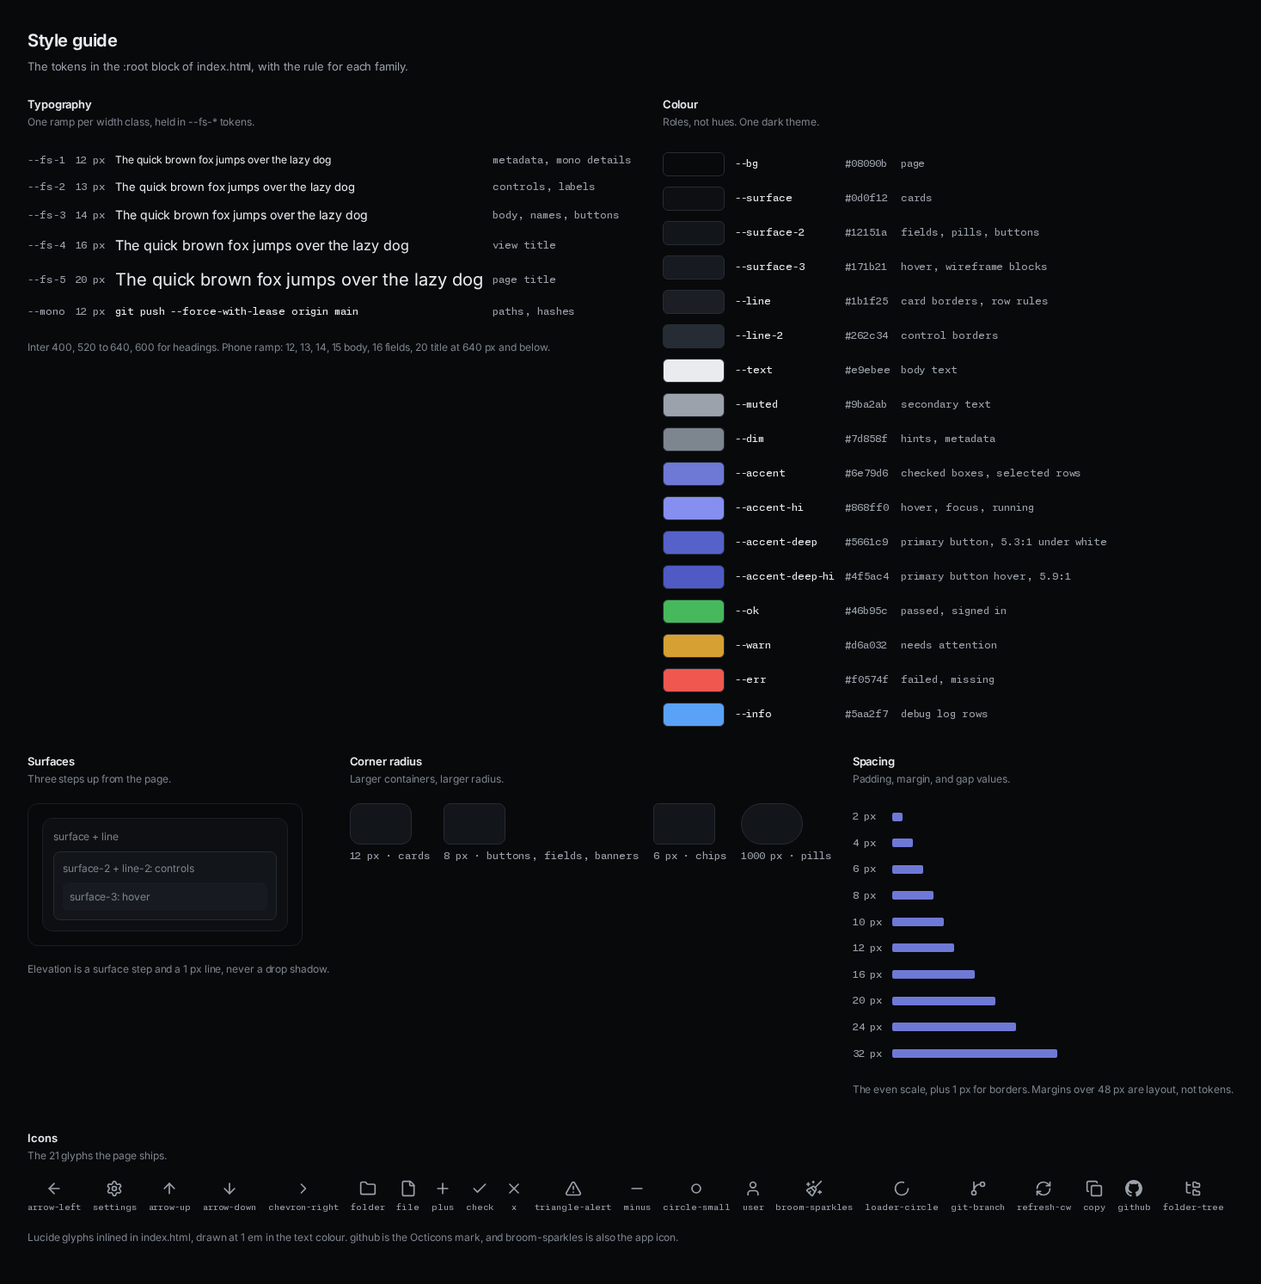
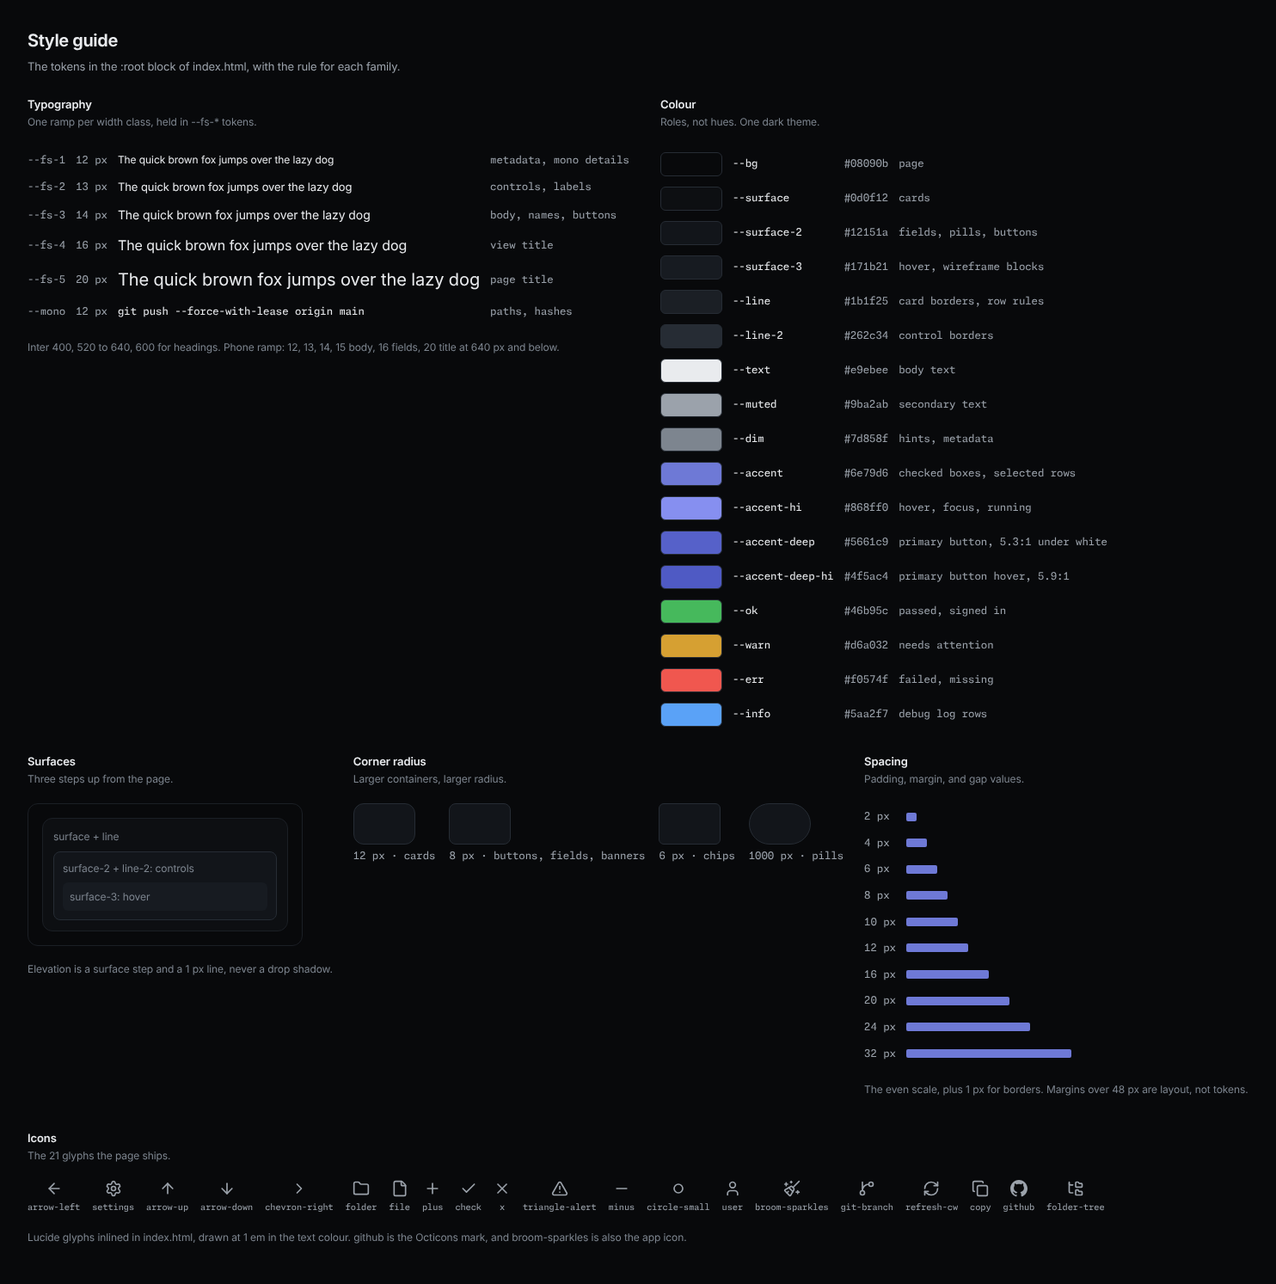
feat(ui): pulse a dot on every amber state

diff --git a/docs/boards/style.html b/docs/boards/style.html
@@ -159,7 +159,7 @@
 <p class="lbl">Icons</p>
 <p class="sub">The 21 glyphs the page ships.</p>
 </div>
-<div class="row" style="gap:14px;font-size:20px;color:var(--muted);flex-wrap:wrap"><span class="col" style="gap:4px;align-items:center"><span class="ico-svg" data-icon="arrow-left" aria-hidden="true"></span><span class="mono" style="font-size:10px">arrow-left</span></span><span class="col" style="gap:4px;align-items:center"><span class="ico-svg" data-icon="settings" aria-hidden="true"></span><span class="mono" style="font-size:10px">settings</span></span><span class="col" style="gap:4px;align-items:center"><span class="ico-svg" data-icon="arrow-up" aria-hidden="true"></span><span class="mono" style="font-size:10px">arrow-up</span></span><span class="col" style="gap:4px;align-items:center"><span class="ico-svg" data-icon="arrow-down" aria-hidden="true"></span><span class="mono" style="font-size:10px">arrow-down</span></span><span class="col" style="gap:4px;align-items:center"><span class="ico-svg" data-icon="chevron-right" aria-hidden="true"></span><span class="mono" style="font-size:10px">chevron-right</span></span><span class="col" style="gap:4px;align-items:center"><span class="ico-svg" data-icon="folder" aria-hidden="true"></span><span class="mono" style="font-size:10px">folder</span></span><span class="col" style="gap:4px;align-items:center"><span class="ico-svg" data-icon="file" aria-hidden="true"></span><span class="mono" style="font-size:10px">file</span></span><span class="col" style="gap:4px;align-items:center"><span class="ico-svg" data-icon="plus" aria-hidden="true"></span><span class="mono" style="font-size:10px">plus</span></span><span class="col" style="gap:4px;align-items:center"><span class="ico-svg" data-icon="check" aria-hidden="true"></span><span class="mono" style="font-size:10px">check</span></span><span class="col" style="gap:4px;align-items:center"><span class="ico-svg" data-icon="x" aria-hidden="true"></span><span class="mono" style="font-size:10px">x</span></span><span class="col" style="gap:4px;align-items:center"><span class="ico-svg" data-icon="triangle-alert" aria-hidden="true"></span><span class="mono" style="font-size:10px">triangle-alert</span></span><span class="col" style="gap:4px;align-items:center"><span class="ico-svg" data-icon="minus" aria-hidden="true"></span><span class="mono" style="font-size:10px">minus</span></span><span class="col" style="gap:4px;align-items:center"><span class="ico-svg" data-icon="circle-small" aria-hidden="true"></span><span class="mono" style="font-size:10px">circle-small</span></span><span class="col" style="gap:4px;align-items:center"><span class="ico-svg" data-icon="user" aria-hidden="true"></span><span class="mono" style="font-size:10px">user</span></span><span class="col" style="gap:4px;align-items:center"><span class="ico-svg" data-icon="broom-sparkles" aria-hidden="true"></span><span class="mono" style="font-size:10px">broom-sparkles</span></span><span class="col" style="gap:4px;align-items:center"><span class="ico-svg" data-icon="loader-circle" aria-hidden="true"></span><span class="mono" style="font-size:10px">loader-circle</span></span><span class="col" style="gap:4px;align-items:center"><span class="ico-svg" data-icon="git-branch" aria-hidden="true"></span><span class="mono" style="font-size:10px">git-branch</span></span><span class="col" style="gap:4px;align-items:center"><span class="ico-svg" data-icon="refresh-cw" aria-hidden="true"></span><span class="mono" style="font-size:10px">refresh-cw</span></span><span class="col" style="gap:4px;align-items:center"><span class="ico-svg" data-icon="copy" aria-hidden="true"></span><span class="mono" style="font-size:10px">copy</span></span><span class="col" style="gap:4px;align-items:center"><span class="ico-svg" data-icon="github" aria-hidden="true"></span><span class="mono" style="font-size:10px">github</span></span><span class="col" style="gap:4px;align-items:center"><span class="ico-svg" data-icon="folder-tree" aria-hidden="true"></span><span class="mono" style="font-size:10px">folder-tree</span></span></div>
+<div class="row" style="gap:14px;font-size:20px;color:var(--muted);flex-wrap:wrap"><span class="col" style="gap:4px;align-items:center"><span class="ico-svg" data-icon="arrow-left" aria-hidden="true"></span><span class="mono" style="font-size:10px">arrow-left</span></span><span class="col" style="gap:4px;align-items:center"><span class="ico-svg" data-icon="settings" aria-hidden="true"></span><span class="mono" style="font-size:10px">settings</span></span><span class="col" style="gap:4px;align-items:center"><span class="ico-svg" data-icon="arrow-up" aria-hidden="true"></span><span class="mono" style="font-size:10px">arrow-up</span></span><span class="col" style="gap:4px;align-items:center"><span class="ico-svg" data-icon="arrow-down" aria-hidden="true"></span><span class="mono" style="font-size:10px">arrow-down</span></span><span class="col" style="gap:4px;align-items:center"><span class="ico-svg" data-icon="chevron-right" aria-hidden="true"></span><span class="mono" style="font-size:10px">chevron-right</span></span><span class="col" style="gap:4px;align-items:center"><span class="ico-svg" data-icon="folder" aria-hidden="true"></span><span class="mono" style="font-size:10px">folder</span></span><span class="col" style="gap:4px;align-items:center"><span class="ico-svg" data-icon="file" aria-hidden="true"></span><span class="mono" style="font-size:10px">file</span></span><span class="col" style="gap:4px;align-items:center"><span class="ico-svg" data-icon="plus" aria-hidden="true"></span><span class="mono" style="font-size:10px">plus</span></span><span class="col" style="gap:4px;align-items:center"><span class="ico-svg" data-icon="check" aria-hidden="true"></span><span class="mono" style="font-size:10px">check</span></span><span class="col" style="gap:4px;align-items:center"><span class="ico-svg" data-icon="x" aria-hidden="true"></span><span class="mono" style="font-size:10px">x</span></span><span class="col" style="gap:4px;align-items:center"><span class="ico-svg" data-icon="triangle-alert" aria-hidden="true"></span><span class="mono" style="font-size:10px">triangle-alert</span></span><span class="col" style="gap:4px;align-items:center"><span class="ico-svg" data-icon="minus" aria-hidden="true"></span><span class="mono" style="font-size:10px">minus</span></span><span class="col" style="gap:4px;align-items:center"><span class="ico-svg" data-icon="circle-small" aria-hidden="true"></span><span class="mono" style="font-size:10px">circle-small</span></span><span class="col" style="gap:4px;align-items:center"><span class="ico-svg" data-icon="user" aria-hidden="true"></span><span class="mono" style="font-size:10px">user</span></span><span class="col" style="gap:4px;align-items:center"><span class="ico-svg" data-icon="broom-sparkles" aria-hidden="true"></span><span class="mono" style="font-size:10px">broom-sparkles</span></span><span class="col" style="gap:4px;align-items:center"><span class="ico-svg" data-icon="git-branch" aria-hidden="true"></span><span class="mono" style="font-size:10px">git-branch</span></span><span class="col" style="gap:4px;align-items:center"><span class="ico-svg" data-icon="refresh-cw" aria-hidden="true"></span><span class="mono" style="font-size:10px">refresh-cw</span></span><span class="col" style="gap:4px;align-items:center"><span class="ico-svg" data-icon="copy" aria-hidden="true"></span><span class="mono" style="font-size:10px">copy</span></span><span class="col" style="gap:4px;align-items:center"><span class="ico-svg" data-icon="github" aria-hidden="true"></span><span class="mono" style="font-size:10px">github</span></span><span class="col" style="gap:4px;align-items:center"><span class="ico-svg" data-icon="folder-tree" aria-hidden="true"></span><span class="mono" style="font-size:10px">folder-tree</span></span></div>
 <p class="cap">Lucide glyphs inlined in index.html, drawn at 1 em in the text colour. github is the Octicons mark, and broom-sparkles is also the app icon.</p>
 </div>
 </div>

diff --git a/ui/static/index.html b/ui/static/index.html
@@ -265,7 +265,9 @@
   .btn.twin > span { grid-area: 1 / 1; display: inline-flex; align-items: center; justify-content: center; gap: 8px; }
   .btn.twin:not(.running) > .busy, .btn.twin.running > .idle { visibility: hidden; }
   .btn.twin.running:disabled { opacity: 1; cursor: progress; background: var(--surface-2); border-color: var(--line-2); color: var(--dim); }
-  .btn.twin.running .busy .ico-svg { color: var(--warn); animation: spin 1s linear infinite; }
+  .btn.twin.running .busy .ico-svg { color: var(--warn); }
+  /* the hidden busy face holds still, so an idle row runs no animation */
+  .btn.twin:not(.running) .busy .dot { animation: none; }
   .clean .sparkles { opacity: 0; transition: opacity var(--fast) var(--ease); }
   .clean:focus-visible .sparkles { opacity: 1; }
   @media (hover: hover) { .clean:hover .sparkles { opacity: 1; } }
@@ -480,8 +482,8 @@
   .check-list .passed > .ico-svg { color: var(--ok); }
   .check-list .failed > .ico-svg { color: var(--err); }
   .check-list .running > .ico-svg { color: var(--warn); }
-  /* an amber dot marks a live state, so it pulses like the LED: a running
-     check or step in its glyph slot, and a running PR in the sidebar */
+  /* an amber dot marks a live state, so it pulses like the LED: a running check,
+     step, or phase in its glyph slot, the Running button, and a running PR in the sidebar */
   .ico-svg > .dot { margin: auto; }
   .ico-svg > .dot, .dot.live, .pill.warn .dot { animation: pulse 1.4s ease-in-out infinite; }
   .check-list { margin-bottom: 0; }
@@ -634,7 +636,6 @@
     color: var(--dim); font-size: var(--fs-1); line-height: 1;
   }
   .phase[data-state="run"] .phase-ico { color: var(--warn); }
-  .phase[data-state="run"] .phase-ico svg { animation: spin .9s linear infinite; }
   .phase[data-state="done"] .phase-ico { color: var(--ok); }
   .phase[data-state="fail"] .phase-ico { color: var(--err); }
   .phase[data-state="skip"] .phase-ico { color: var(--dim); }
@@ -1192,7 +1193,6 @@
     user: svg(paths("M19 21v-2a4 4 0 0 0-4-4H9a4 4 0 0 0-4 4v2") + '<circle cx="12" cy="7" r="4"/>'),
     // the app icon; scripts/app_icon.py draws the same paths at every size
     "broom-sparkles": svg(paths("M13.5 10.5 22 2", "M14.734 13.841a2 2 0 00-.314-2.42L12.58 9.58a2 2 0 00-2.421-.314l-7.657 4.461A1 1 0 002.3 15.3l6.403 6.403a1 1 0 001.571-.204z", "m5 18 2-2", "m7.699 10.7 5.602 5.601") + '<g class="sparkles">' + paths("M11 2v2", "M12 3h-2", "M20 15v4", "M22 17h-4", "M4 4v4", "M6 6H2") + "</g>"),
-    "loader-circle": svg(paths("M21 12a9 9 0 1 1-6.219-8.56")),
     "git-branch": svg(paths("M15 6a9 9 0 0 0-9 9V3") + '<circle cx="18" cy="6" r="3"/><circle cx="6" cy="18" r="3"/>'),
     "refresh-cw": svg(paths("M3 12a9 9 0 0 1 9-9 9.75 9.75 0 0 1 6.74 2.74L21 8", "M21 3v5h-5", "M21 12a9 9 0 0 1-9 9 9.75 9.75 0 0 1-6.74-2.74L3 16", "M8 16H3v5")),
     copy: svg('<rect width="14" height="14" x="8" y="8" rx="2" ry="2"/>' + paths("M4 16c-1.1 0-2-.9-2-2V4c0-1.1.9-2 2-2h10c1.1 0 2 .9 2 2")),
@@ -1617,7 +1617,7 @@
         title: busy ? CLEAN_RUNNING : stale || "Clean & Push",
         onclick: async (e) => { e.stopPropagation(); await oneClick(repo); } },
         el("span", { class: "idle" }, icon("broom-sparkles"), "Clean & Push"),
-        el("span", { class: "busy" }, icon("loader-circle"), "Running")));
+        el("span", { class: "busy" }, liveDot(), "Running")));
 
     return el("tr", { class: "repo-card", "aria-busy": busy, onclick: () => openRepo(repo.id) },
       cell("", head), cell("", meta), cell("wide", arena), cell("cell-actions", actions, removeButton(repo)));
@@ -2317,8 +2317,8 @@
     const node = phaseNode(p.id);
     if (!node) return;
     node.dataset.state = p.state;
-    node.querySelector(".phase-ico").replaceChildren(
-      icon({ done: "check", fail: "x", run: "loader-circle", skip: "minus" }[p.state] || "circle-small",
+    node.querySelector(".phase-ico").replaceChildren(p.state === "run" ? liveDot() :
+      icon({ done: "check", fail: "x", skip: "minus" }[p.state] || "circle-small",
         p.state === "idle" ? "ico-svg idle" : "ico-svg"));
     node.querySelector(".phase-sub").textContent = p.sub;
     const secs = p.start && p.end ? p.end - p.start : 0;

diff --git a/docs/boards/components.html b/docs/boards/components.html
@@ -7,7 +7,7 @@
 </div>
 <table class="sheet">
 <tr><td>primary</td><td><button class="btn primary clean"><span class="ico-svg" data-icon="broom-sparkles" aria-hidden="true"></span>Clean &amp; Push</button></td><td><button class="btn primary clean" disabled><span class="ico-svg" data-icon="broom-sparkles" aria-hidden="true"></span>Clean &amp; Push</button></td></tr>
-<tr><td>primary, live run</td><td><button class="btn primary">Cancel</button></td><td><button class="btn primary clean twin running" disabled><span class="idle"><span class="ico-svg" data-icon="broom-sparkles" aria-hidden="true"></span>Clean &amp; Push</span><span class="busy"><span class="ico-svg" data-icon="loader-circle" aria-hidden="true"></span>Running</span></button></td></tr>
+<tr><td>primary, live run</td><td><button class="btn primary">Cancel</button></td><td><button class="btn primary clean twin running" disabled><span class="idle"><span class="ico-svg" data-icon="broom-sparkles" aria-hidden="true"></span>Clean &amp; Push</span><span class="busy"><span class="ico-svg" aria-hidden="true"><i class="dot"></i></span>Running</span></button></td></tr>
 <tr><td>default</td><td><button class="btn">Save</button></td><td><button class="btn" disabled>Save</button></td></tr>
 <tr><td>ghost</td><td><button class="btn ghost"><span class="ico-svg" data-icon="refresh-cw" aria-hidden="true"></span>Re-check</button></td><td><button class="btn ghost" disabled><span class="ico-svg" data-icon="refresh-cw" aria-hidden="true"></span>Re-check</button></td></tr>
 <tr><td>back</td><td><button class="btn ghost back"><span class="ico-svg" data-icon="arrow-left" aria-hidden="true"></span>All repos</button></td><td></td></tr>

diff --git a/docs/boards/states.html b/docs/boards/states.html
@@ -23,7 +23,7 @@
 <div class="phase-head"><span class="phase-ico"><span class="ico-svg" data-icon="check" aria-hidden="true"></span></span><span class="phase-name">Prepare</span><span class="phase-sub"></span><span class="phase-time">0.4s</span></div>
 </li>
 <li class="phase" data-state="run">
-<div class="phase-head"><span class="phase-ico"><span class="ico-svg" data-icon="loader-circle" aria-hidden="true"></span></span><span class="phase-name">PR checks</span><span class="phase-sub">1/2</span><span class="phase-time">running</span></div>
+<div class="phase-head"><span class="phase-ico"><span class="ico-svg" aria-hidden="true"><i class="dot"></i></span></span><span class="phase-name">PR checks</span><span class="phase-sub">1/2</span><span class="phase-time">running</span></div>
 </li>
 <li class="phase" data-state="idle">
 <div class="phase-head"><span class="phase-ico"><span class="ico-svg idle" data-icon="circle-small" aria-hidden="true"></span></span><span class="phase-name">Rewrite and sign</span><span class="phase-sub"></span><span class="phase-time"></span></div>

diff --git a/tests/e2e/test_dash_running.py b/tests/e2e/test_dash_running.py
@@ -1,7 +1,7 @@
 """A dashboard row shows a clean in flight on its repo.
 
 The server flags a repo with a live job. Its Clean & Push button turns into
-Running: disabled, an amber spinning glyph, and the same box. The reason is
+Running: disabled, an amber pulsing dot, and the same box. The reason is
 its title, and the row carries aria-busy. The return from the repo view reads
 the list again, so the row shows a run started there (docs/design.md).
 """
@@ -22,12 +22,16 @@ REPO = "shop-web"
 CARD = f".repo-card:has-text('{REPO}')"
 ROW = """(card) => {
   const btn = card.querySelector('button.clean');
-  const glyph = getComputedStyle(btn.querySelector('.busy .ico-svg'));
+  const slot = btn.querySelector('.busy .ico-svg');
+  const glyph = getComputedStyle(slot);
+  const dot = slot.querySelector('.dot');
   const warn = getComputedStyle(document.documentElement).getPropertyValue('--warn').trim();
   return { busy: card.getAttribute('aria-busy'), pills: card.querySelectorAll('.repo-meta .pill').length,
     running: btn.classList.contains('running'), label: btn.innerText.trim(),
     disabled: btn.disabled, title: btn.title, amber: glyph.color === warn || glyph.color === hex(warn),
-    spins: glyph.animationName === 'spin', box: [btn.offsetWidth, btn.offsetHeight] };
+    dot: Boolean(dot) && !slot.querySelector('svg'),
+    pulses: dot ? getComputedStyle(dot).animationName === 'pulse' : false,
+    box: [btn.offsetWidth, btn.offsetHeight] };
   function hex(c) {
     const m = /^#([0-9a-f]{6})$/i.exec(c);
     return m ? `rgb(${[0, 2, 4].map((i) => parseInt(m[1].slice(i, i + 2), 16)).join(', ')})` : c;
@@ -64,11 +68,12 @@ def test_a_live_job_marks_its_row(desktop: Walker) -> None:
       "disabled": True,
       "title": REASON,
       "amber": True,
-      "spins": True,
+      "dot": True,
+      "pulses": True,
       "box": other["box"],
     }, "the button carries the run, no pill, and the same box as an idle one"
     assert other["busy"] is None and other["label"] == "Clean & Push", "one row alone"
-    assert other["spins"] is False
+    assert other["pulses"] is False
     # repo view and back: the return reads the statuses once more
     before = len(reads)
     desktop.click(f"{CARD} .repo-name", 600)

diff --git a/tests/e2e/test_phase_modals.py b/tests/e2e/test_phase_modals.py
@@ -212,16 +212,20 @@ RUN_GLYPH = """() => {
   document.body.append(probe);
   const want = getComputedStyle(probe).color;
   probe.remove();
-  return { color: style.color, want, animation: getComputedStyle(ico.querySelector('svg')).animationName };
+  const dot = ico.querySelector('.ico-svg > .dot');
+  return { color: style.color, want, svg: Boolean(ico.querySelector('svg')), dot: Boolean(dot),
+    animation: dot ? getComputedStyle(dot).animationName : 'none',
+    amber: dot ? getComputedStyle(dot).backgroundColor === want : false };
 }"""
 
 
-def test_a_running_row_spins_its_glyph_amber(desktop: Walker) -> None:
-  """The live row takes the warn role, like every other spinner."""
+def test_a_running_row_pulses_an_amber_dot(desktop: Walker) -> None:
+  """The live row is an amber state, so its glyph slot holds the pulsing dot."""
   open_run(desktop, RUN[:8], status="running")
-  desktop.page.wait_for_selector('.phase[data-state="run"] .phase-ico svg')
+  desktop.page.wait_for_selector('.phase[data-state="run"] .phase-ico .dot')
   glyph = desktop.page.evaluate(RUN_GLYPH)
-  assert glyph["color"] == glyph["want"], "the running glyph is amber"
-  assert glyph["animation"] == "spin"
+  assert glyph["color"] == glyph["want"], "the running slot is amber"
+  assert glyph["dot"] and glyph["amber"] and not glyph["svg"], "a dot, no glyph"
+  assert glyph["animation"] == "pulse"
   desktop.page.unroute(JOB)
   desktop.click("#back", 600)

diff --git a/tests/test_ui.py b/tests/test_ui.py
@@ -1336,8 +1336,8 @@ def test_every_clean_button_carries_the_broom_glyph() -> None:
   assert (
     'el("span", { class: "idle" }, icon("broom-sparkles"), "Clean & Push"),' in page
   ), "the card button has words"
-  assert 'el("span", { class: "busy" }, icon("loader-circle"), "Running")));' in page, (
-    "the busy face names the run"
+  assert 'el("span", { class: "busy" }, liveDot(), "Running")));' in page, (
+    "the busy face names the run behind the live dot"
   )
   assert 'running ? ["Cancel"] : [icon("broom-sparkles"), "Clean & Push"]' in page
   assert ".clean .sparkles { opacity: 0;" in page

diff --git a/docs/design.md b/docs/design.md
@@ -123,7 +123,7 @@ The one design record for the arena-cleanup web app. Its sections follow the nem
     - Icon buttons, the card mark, and the brand mark take `--ico-l`, 18 px.
     - A glyph in running text stays at 1 em.
 - Navigation and file glyphs in use: arrow-left, settings, arrow-up, arrow-down, chevron-right, folder, folder-tree, file, and plus.
-- State and action glyphs in use: check, x, triangle-alert, minus, circle-small, loader-circle, git-branch, refresh-cw, copy, user, and broom-sparkles.
+- State and action glyphs in use: check, x, triangle-alert, minus, circle-small, git-branch, refresh-cw, copy, user, and broom-sparkles.
 - Buttons with a glyph: Reload is `refresh-cw` alone, named `Reload commits` in `aria-label` and `title`.
   - Copy log is `copy` alone, named `Copy log` the same way.
   - Re-check and Retry lead with `refresh-cw`, Copy public key with `copy`, and Browse with `folder-tree`.
@@ -204,7 +204,7 @@ The one design record for the arena-cleanup web app. Its sections follow the nem
     - Checked, it takes the accent fill and a white Lucide check.
     - `danger` fills a checked destructive option with the warn colour and a dark check.
   - Phone: the checkboxes form a grid with 160 px columns. Browse, the fold head, and the 16 px path field are 44 px targets there.
-- `phase`: a row with the state glyph, a name, a count, and the time. The running glyph spins in `warn`.
+- `phase`: a row with the state glyph, a name, a count, and the time. The running row holds the amber pulsing dot in its glyph slot.
   - Counts: the count comes from the engine's lines.
     - PR checks reads `passed/total`.
     - Rewrite and sign reads `collecting N commits`, then `signing X/Y`, then `signed X commits`.
@@ -216,7 +216,7 @@ The one design record for the arena-cleanup web app. Its sections follow the nem
     - The actions cell holds Clean, and Remove with the trash glyph.
     - The arena area takes the free width, so Clean and Remove sit at the right edge.
     - In a row an arena row is one line: the name, the ahead chip, and the PR pill.
-    - A clean in flight turns Clean & Push into Running: disabled, an amber spinning glyph, the same box, and the reason as its title. The row carries `aria-busy`.
+    - A clean in flight turns Clean & Push into Running: disabled, an amber pulsing dot, the same box, and the reason as its title. The row carries `aria-busy`.
   - Card: a grid card once the table, laid out at its natural width, no longer fits its room. The page measures after each render and on each resize.
     - The icon, the name, and Remove sit on top on one centre line, then the arena rows, and Clean & Push bottom right.
     - The branch chip stays in the rows, and an unavailable card shows its reason in the arena area.
@@ -521,4 +521,5 @@ The one design record for the arena-cleanup web app. Its sections follow the nem
 - Accepted 2026-10-24: a button that leads to GitHub shows the GitHub mark instead of the word. Its title and accessible name keep the phrase.
 - Accepted 2026-10-24: the Clean & Push button carries a live run itself, as Running with an amber spinning glyph, and the `clean running` pill is gone. Both labels share one grid cell, so the button keeps its width and height across states.
 - Accepted 2026-10-24: every amber dot pulses like the LED: a running check, a running job step, and the sidebar dot of a running PR. The run timeline glyph, the Running button, and Re-check keep their spinners.
+- Accepted 2026-10-25: every amber state is a live state and pulses the dot. The run timeline glyph and the Running button drop their amber spinners, and Re-check keeps its neutral one, since a fetch is no amber state.
 - Accepted 2026-10-24: page memory keeps commit pages by repo, ref, tip, and cursor, the settings and signing answers, and the last run per repo. Each paints at once, and a fresh read replaces it only when the answer differs.

diff --git a/CHANGELOG.md b/CHANGELOG.md
@@ -9,6 +9,14 @@ The engine, `arena-cleanup.py`, carries its own number and its own file,
 The format follows [Keep a Changelog](https://keepachangelog.com/en/1.1.0/),
 and the project uses [Semantic Versioning](https://semver.org/spec/v2.0.0.html).
 
+## [0.3.11] - 2026-10-25
+
+### Changed
+
+- The run timeline's running row and the Running button show the amber
+  pulsing dot instead of a spinner, so every amber state pulses the dot.
+  Re-check keeps its neutral spinner.
+
 ## [0.3.10] - 2026-10-24
 
 ### Changed
